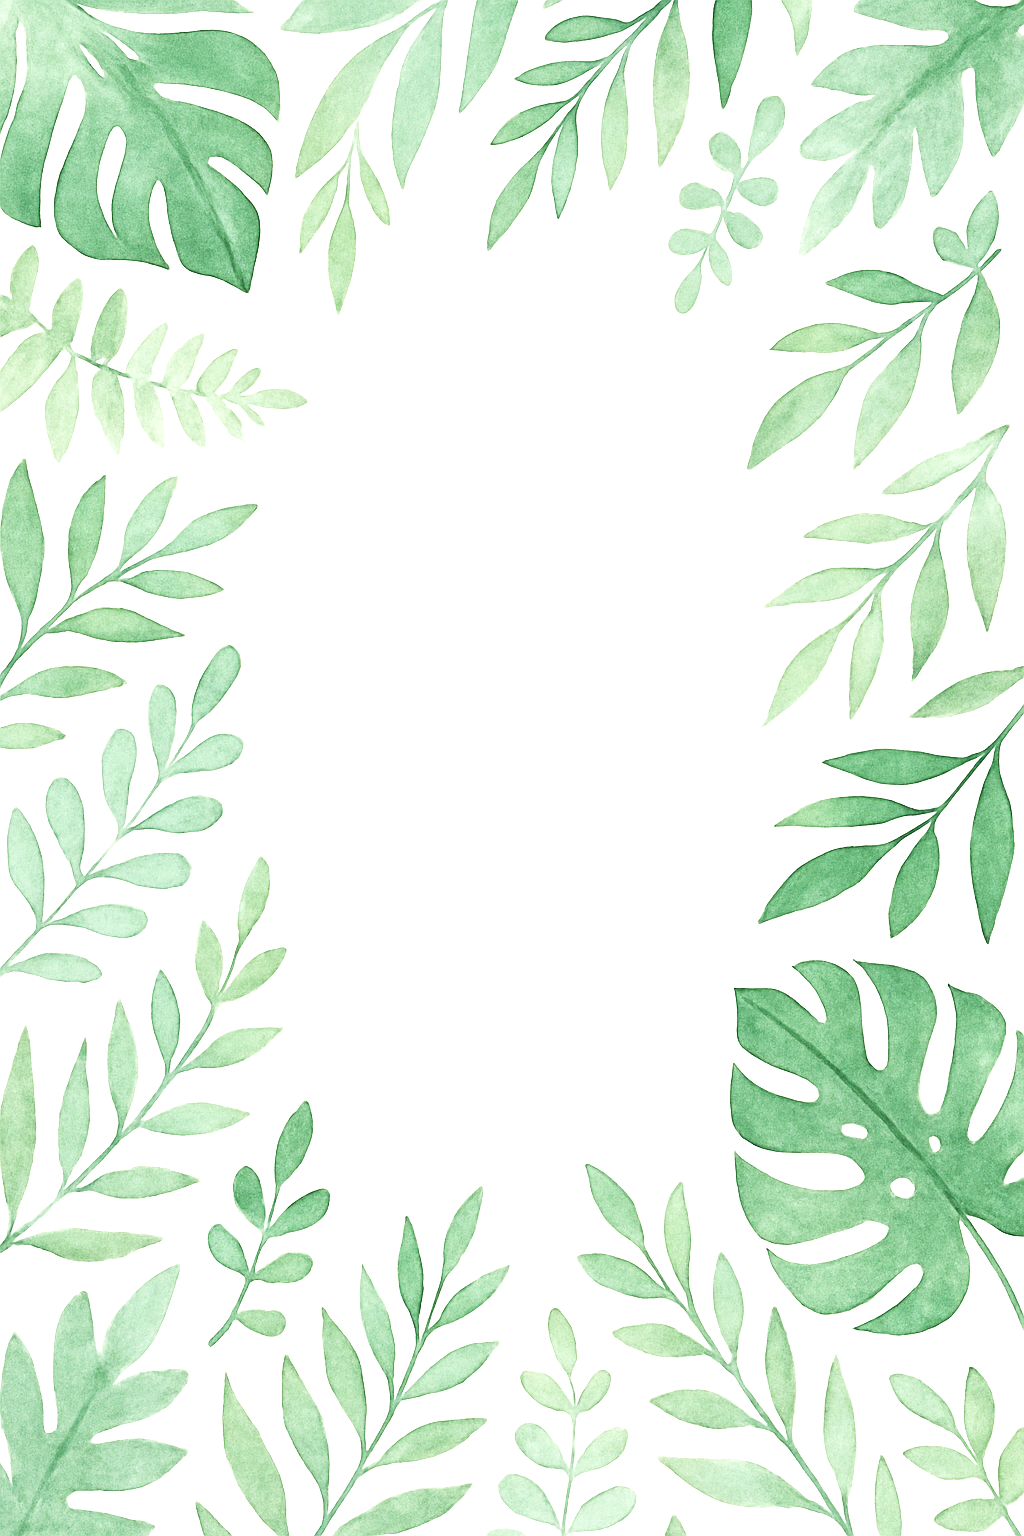
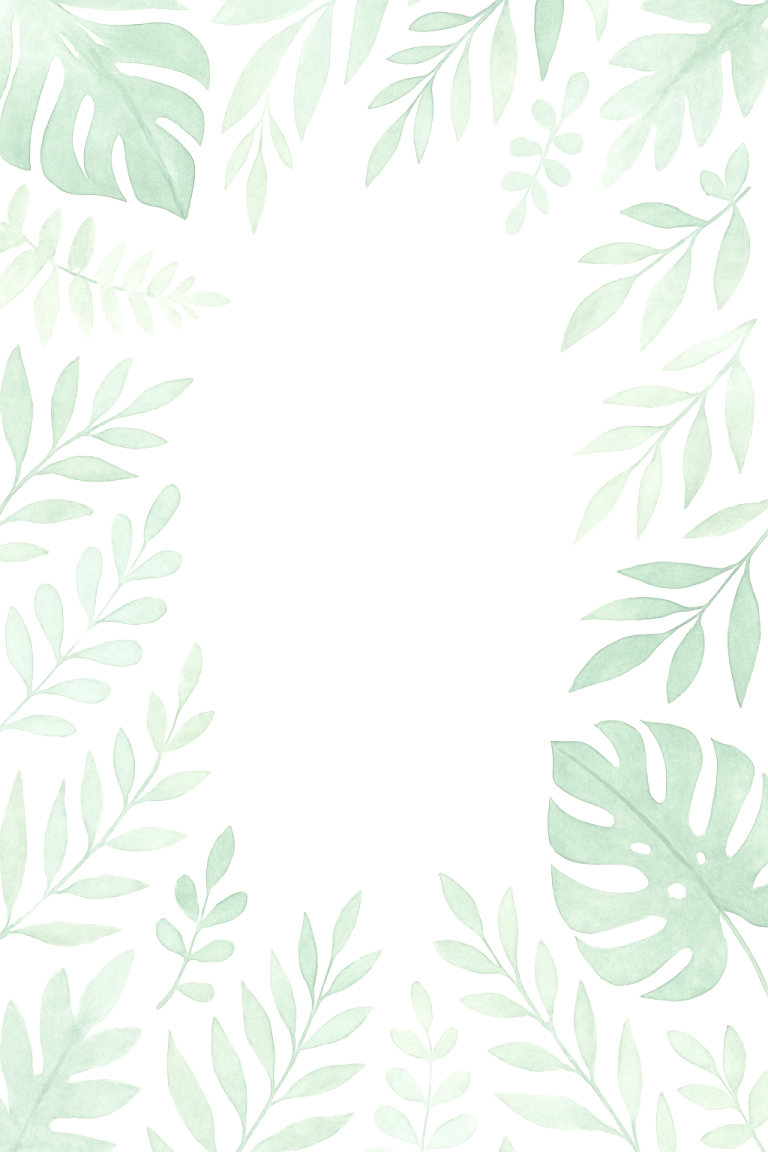
Added filter/search for products and small tweaks to UI

diff --git a/lib/screens/product_list_screen.dart b/lib/screens/product_list_screen.dart
@@ -3,63 +3,109 @@ import 'package:cloud_firestore/cloud_firestore.dart';
 import '../models/product.dart';
 import 'product_detail_screen.dart';
 
-class ProductListScreen extends StatelessWidget {
+class ProductListScreen extends StatefulWidget {
   const ProductListScreen({super.key});
+
+  @override
+  State<ProductListScreen> createState() => _ProductListScreenState();
+}
+
+class _ProductListScreenState extends State<ProductListScreen> {
+  final TextEditingController _searchController = TextEditingController();
+  String _searchTerm = '';
+
+  @override
+  void initState() {
+    super.initState();
+    _searchController.addListener(() {
+      setState(() {
+        _searchTerm = _searchController.text.toLowerCase();
+      });
+    });
+  }
+
+  @override
+  void dispose() {
+    _searchController.dispose();
+    super.dispose();
+  }
 
   @override
   Widget build(BuildContext context) {
     return Scaffold(
       backgroundColor: Colors.transparent,
-      appBar: AppBar(title: Text("Browse Products")),
-      body: StreamBuilder<QuerySnapshot>(
-        stream: FirebaseFirestore.instance.collection('products').snapshots(),
-        builder: (context, snapshot) {
-          if (snapshot.connectionState == ConnectionState.waiting) {
-            return Center(child: CircularProgressIndicator());
-          }
+      appBar: AppBar(title: const Text("Browse Products")),
+      body: Column(
+        children: [
+          Padding(
+            padding: const EdgeInsets.all(8),
+            child: TextField(
+              controller: _searchController,
+              decoration: InputDecoration(
+                hintText: 'Search products...',
+                prefixIcon: Icon(Icons.search),
+                border: OutlineInputBorder(),
+              ),
+            ),
+          ),
+          Expanded(
+            child: StreamBuilder<QuerySnapshot>(
+              stream: FirebaseFirestore.instance.collection('products').snapshots(),
+              builder: (context, snapshot) {
+                if (snapshot.connectionState == ConnectionState.waiting) {
+                  return const Center(child: CircularProgressIndicator());
+                }
 
-          if (snapshot.hasError) {
-            return Center(child: Text('Error: ${snapshot.error}'));
-          }
+                if (snapshot.hasError) {
+                  return Center(child: Text('Error: ${snapshot.error}'));
+                }
 
-          if (!snapshot.hasData || snapshot.data!.docs.isEmpty) {
-            return Center(child: Text('No products found.'));
-          }
+                if (!snapshot.hasData || snapshot.data!.docs.isEmpty) {
+                  return const Center(child: Text('No products found.'));
+                }
 
-          final docs = snapshot.data!.docs;
-          final products =
-              docs
-                  .map(
-                    (doc) => Product.fromFirestore(
-                      doc.data()! as Map<String, dynamic>,
-                      doc.id,
-                    ),
-                  )
-                  .toList();
+                final docs = snapshot.data!.docs;
 
-          return ListView.builder(
-            itemCount: products.length,
-            itemBuilder: (context, index) {
-              final product = products[index];
+                final products = docs
+                    .map((doc) => Product.fromFirestore(
+                          doc.data()! as Map<String, dynamic>,
+                          doc.id,
+                        ))
+                    .where((product) =>
+                        product.title.toLowerCase().contains(_searchTerm) ||
+                        product.description.toLowerCase().contains(_searchTerm))
+                    .toList();
 
-              return Card(
-                child: ListTile(
-                  title: Text(product.title),
-                  subtitle: Text(product.description),
-                  trailing: Text("\$${product.price.toStringAsFixed(2)}"),
-                  onTap: () {
-                    Navigator.push(
-                      context,
-                      MaterialPageRoute(
-                        builder: (_) => ProductDetailScreen(product: product),
+                if (products.isEmpty) {
+                  return const Center(child: Text('No matching products.'));
+                }
+
+                return ListView.builder(
+                  itemCount: products.length,
+                  itemBuilder: (context, index) {
+                    final product = products[index];
+
+                    return Card(
+                      child: ListTile(
+                        title: Text(product.title),
+                        subtitle: Text(product.description),
+                        trailing: Text("\$${product.price.toStringAsFixed(2)}"),
+                        onTap: () {
+                          Navigator.push(
+                            context,
+                            MaterialPageRoute(
+                              builder: (_) => ProductDetailScreen(product: product),
+                            ),
+                          );
+                        },
                       ),
                     );
                   },
-                ),
-              );
-            },
-          );
-        },
+                );
+              },
+            ),
+          ),
+        ],
       ),
     );
   }

diff --git a/lib/screens/signup_screen.dart b/lib/screens/signup_screen.dart
@@ -3,13 +3,15 @@ import 'package:firebase_auth/firebase_auth.dart';
 import 'package:cloud_firestore/cloud_firestore.dart';
 
 class SignupScreen extends StatelessWidget {
+  final usernameController = TextEditingController();
   final emailController = TextEditingController();
   final passwordController = TextEditingController();
 
   SignupScreen({super.key});
 
   void _signup(BuildContext context) async {
-    if (emailController.text.trim().isEmpty ||
+    if (usernameController.text.trim().isEmpty ||
+        emailController.text.trim().isEmpty ||
         passwordController.text.trim().isEmpty) {
       ScaffoldMessenger.of(
         context,
@@ -31,6 +33,7 @@ class SignupScreen extends StatelessWidget {
         'role': 'user',
         'createdAt': Timestamp.now(),
         'points': 0,
+        'username': usernameController.text.trim(),
       });
 
       Navigator.pop(context);
@@ -50,6 +53,10 @@ class SignupScreen extends StatelessWidget {
         padding: EdgeInsets.all(16),
         child: Column(
           children: [
+            // TextField(
+            //   controller: usernameController,
+            //   decoration: InputDecoration(labelText: "Username"),
+            // ),
             TextField(
               controller: emailController,
               decoration: InputDecoration(labelText: "Email"),

diff --git a/lib/screens/cart_screen.dart b/lib/screens/cart_screen.dart
@@ -33,15 +33,27 @@ class CartScreen extends StatelessWidget {
                     ),
                     backgroundColor: Theme.of(context).primaryColor,
                   ),
+
                   TextButton(
                     onPressed: () {
-                      Navigator.push(
-                        context,
-                        MaterialPageRoute(
-                          builder: (_) => const CheckoutScreen(),
-                        ),
-                      );
+                      if (cart.items.isEmpty) {
+                        ScaffoldMessenger.of(context).showSnackBar(
+                          const SnackBar(
+                            content: Text(
+                              "Your cart is empty! Add products to checkout.",
+                            ),
+                          ),
+                        );
+                      } else {
+                        Navigator.push(
+                          context,
+                          MaterialPageRoute(
+                            builder: (_) => const CheckoutScreen(),
+                          ),
+                        );
+                      }
                     },
+
                     child: const Text("CHECKOUT"),
                   ),
                 ],

diff --git a/lib/screens/home_screen.dart b/lib/screens/home_screen.dart
@@ -51,7 +51,6 @@ class _HomeScreenState extends State<HomeScreen> {
       appBar: AppBar(
         title: Text("Shop Home"),
         actions: [
-
           //Cart Button
           IconButton(
             icon: Icon(Icons.shopping_cart),
@@ -113,7 +112,10 @@ class _HomeScreenState extends State<HomeScreen> {
                       MaterialPageRoute(builder: (_) => ProductListScreen()),
                     );
                   },
-                  child: const Text("Browse Products", style: TextStyle(fontSize: 18),),
+                  child: const Text(
+                    "Browse Products",
+                    style: TextStyle(fontSize: 18),
+                  ),
                 ),
                 const SizedBox(height: 16),
 
@@ -126,7 +128,10 @@ class _HomeScreenState extends State<HomeScreen> {
                         MaterialPageRoute(builder: (_) => AdminDashboard()),
                       );
                     },
-                    child: const Text("Admin Dashboard", style: TextStyle(fontSize: 18),),
+                    child: const Text(
+                      "Admin Dashboard",
+                      style: TextStyle(fontSize: 18),
+                    ),
                   ),
 
                 // Rewards Check

diff --git a/lib/main.dart b/lib/main.dart
@@ -21,12 +21,12 @@ class MyApp extends StatelessWidget {
       decoration: const BoxDecoration(
         image: DecorationImage(
           image: AssetImage('assets/background.png'),
-          fit: BoxFit.cover, 
+          fit: BoxFit.cover,
         ),
       ),
       child: MaterialApp(
         title: 'Shop App',
-        theme: ThemeData(primarySwatch: Colors.teal),
+        // theme: ThemeData(primarySwatch: Colors.teal),
         home: const AuthWrapper(),
       ),
     );
@@ -43,11 +43,17 @@ class BackgroundWrapper extends StatelessWidget {
     return Stack(
       children: [
         Positioned.fill(
-          child: Image.asset(
-            'assets/background.png',
-            fit: BoxFit.cover,
+          child: Opacity(
+            opacity: 0.2,
+            child: Image.asset(
+              'assets/background.png',
+              height: double.infinity,
+              width: double.infinity,
+              fit: BoxFit.cover,
+            ),
           ),
         ),
+
         child,
       ],
     );

diff --git a/lib/services/user_services.dart b/lib/services/user_services.dart
@@ -1,14 +1,14 @@
 import 'package:cloud_firestore/cloud_firestore.dart';
 
 Future<String?> getUserRole(String uid) async {
-  final doc = await FirebaseFirestore.instance.collection('users').doc(uid).get();
+  final doc =
+      await FirebaseFirestore.instance.collection('users').doc(uid).get();
   if (doc.exists) {
     final role = doc['role'];
     //print('getUserRole: role for $uid is $role');
     return role;
   } else {
-   // print('getUserRole: no document found for $uid');
+    // print('getUserRole: no document found for $uid');
   }
   return null;
 }
-

diff --git a/lib/screens/login_screen.dart b/lib/screens/login_screen.dart
@@ -3,6 +3,7 @@ import 'package:firebase_auth/firebase_auth.dart';
 import 'signup_screen.dart';
 
 class LoginScreen extends StatelessWidget {
+  // final usernameController = TextEditingController();
   final emailController = TextEditingController();
   final passwordController = TextEditingController();
 

diff --git a/lib/screens/product_detail_screen.dart b/lib/screens/product_detail_screen.dart
@@ -42,7 +42,6 @@ class ProductDetailScreen extends StatelessWidget {
                 ),
               ),
             ),
-            const Spacer(),
             Center(
               child: ElevatedButton(
                 onPressed: () {
